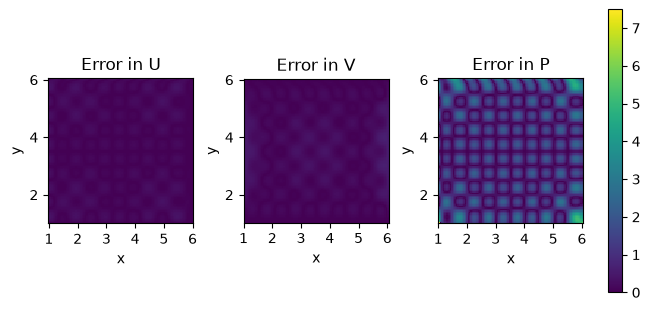
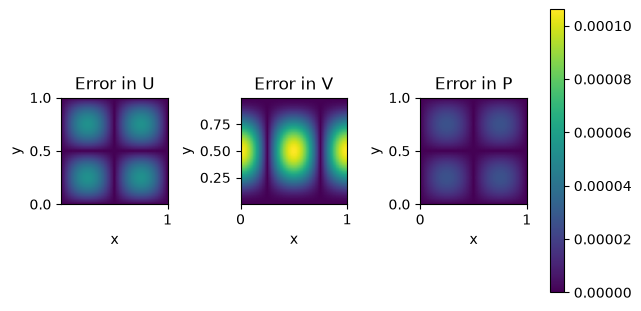
Got the stokes solver to converge to an accurate solution!

diff --git a/Scripts/stokes_solver_v2.py b/Scripts/stokes_solver_v2.py
@@ -4,6 +4,38 @@ import scipy.sparse.linalg as spa
 import matplotlib.pyplot as plt
 from matplotlib.ticker import MultipleLocator
 
+def buildGrids(x, y, Nc, Nr):
+    dx = (x[1]-x[0])/(Nc)
+    x_1 = np.linspace(x[0]+dx, x[1], Nc)
+    x_2 = np.linspace(x[0]+dx/2, x[1]-dx/2, Nc)
+    y_1 = np.linspace(y[0]+dx, y[1]-dx, Nr-1)
+    y_2 = np.linspace(y[0]+dx/2, y[1]-dx/2, Nr)
+    
+    xx_u, yy_u = np.meshgrid(x_1, y_2, indexing ='xy')
+    xx_v, yy_v = np.meshgrid(x_2, y_1, indexing ='xy')
+    xx_p, yy_p = np.meshgrid(x_2, y_2, indexing ='xy')
+    
+    #O = np.zeros((Nc, Nr))
+    
+    ugrids = [xx_u, yy_u]
+    vgrids = [xx_v, yy_v]
+    pgrids = [xx_p, yy_p]
+
+    return ugrids, vgrids, pgrids
+
+def coloredSpy(A, colormap = "coolwarm", filepath = "Images\\Spy.png"):
+    #plt.spy(A, markersize=4, marker='.')
+    fig, ax = plt.subplots()
+    sc = ax.scatter(A.col, A.row, c=A.data, s=8, cmap=colormap, marker="s")
+    ax.set_xlim(-0.5, A.shape[1] - 0.5)
+    ax.set_ylim(A.shape[0] - 0.5, -0.5)      # row 0 at the top, like spy
+    ax.set_aspect("equal")
+    ax.xaxis.tick_top()                       # optional: matches spy's axis placement
+    fig.colorbar(sc, ax=ax, label="value")
+    plt.savefig(filepath)
+    plt.close(fig)
+    return 0
+
 def buildLaplacian(Nr, Nc, u_mat = False):
     row, col, val = [], [], []
     # Build the basic Laplacian
@@ -29,8 +61,12 @@ def buildDeriv(Nr,Nc, dir = 'x', p_mat= False):
     if dir =='x':
         for i in range(Nr):
             for j in range(Nc):
-                row.append(Nc*i+j); col.append(Nc*i+(j+1) % Nc); val.append(1.0) # loop back for periodicity
-                row.append(Nc*i+j); col.append(Nc*i+(j) % Nc); val.append(-1.0) # loop back for periodicity
+                if p_mat:
+                    row.append(Nc*i+j); col.append(Nc*i+(j+1) % Nc); val.append(1.0) # loop back for periodicity
+                    row.append(Nc*i+j); col.append(Nc*i+(j) % Nc); val.append(-1.0) # loop back for periodicity
+                else:
+                    row.append(Nc*i+j); col.append(Nc*i+(j-1) % Nc); val.append(-1.0) # loop back for periodicity
+                    row.append(Nc*i+j); col.append(Nc*i+(j) % Nc); val.append(1.0) # loop back for periodicity
         A = sp.coo_array((val, (row, col)), shape=(Nr*Nr, Nr*Nc))
     if dir =='y':
         for i in range(Nr):
@@ -57,11 +93,13 @@ def buildDeriv(Nr,Nc, dir = 'x', p_mat= False):
             A = sp.coo_array((val, (row, col)))
     return A
 
-def sysAssembly(mu, Nc, Nr, dx, x, y, f, g, U_top, V_top, U_bot, V_bot, verbose=False):
+def sysAssembly(mu, Nc, Nr, x, y, f, g, U_top, V_top, U_bot, V_bot, verbose=False, spy=False):
+    dx = (x[1]-x[0])/(Nr)
+
     # Calculate each block matrix and Build A
     L_u = mu*buildLaplacian(Nr, Nc, u_mat = True)
     L_v = mu*buildLaplacian(Nr-1,Nc)
-    G_x = -1.0*buildDeriv(Nr, Nc, dir = 'x')
+    G_x = -1.0*buildDeriv(Nr, Nc, dir = 'x', p_mat = True)
     G_y = -1.0*buildDeriv(Nr-1,Nc, dir = 'y', p_mat = True)
     D_x = buildDeriv(Nr, Nc, dir = 'x') #buildDeriv(Nx-1, Ny-1, direction = 'x')
     D_y = buildDeriv(Nr,Nc, dir = 'y') #buildDeriv(Nx-1, Ny-2, direction = 'y')
@@ -73,36 +111,27 @@ def sysAssembly(mu, Nc, Nr, dx, x, y, f, g, U_top, V_top, U_bot, V_bot, verbose=
     # print(D_x.shape)
     # print(D_y.shape)
 
-    pin = True
+    pin = False
     if pin:
-        G_x = G_x + sp.coo_array(([-1], ([0],[0])), shape=(Nr*Nr, Nr*Nc))
-
-    A_grid = [[L_u, None, dx*G_x],
-              [None, L_v, dx*G_y],
-              #[D_x, D_y, None]] # Need to revisit how we are building D, it doesn't match G_x.T and it should (at least need to understand where we went wrong)
-              [G_x.T, G_y.T, None]]
+        G_x_pinned = G_x + sp.coo_array(([-1], ([0],[0])), shape=(Nr*Nr, Nr*Nc))
+        A_grid = [[L_u, None, dx*G_x_pinned],
+                  [None, L_v, dx*G_y],
+                  [D_x, D_y, None]] # Need to revisit how we are building D, it doesn't match G_x.T and it should (at least need to understand where we went wrong)
+                  #[G_x.T, G_y.T, None]]
+    else:
+         A_grid = [[L_u, None, dx*G_x],
+                          [None, L_v, dx*G_y],
+                          [D_x, D_y, None]] # Need to revisit how we are building D, it doesn't match G_x.T and it should (at least need to understand where we went wrong)
+                          #[G_x.T, G_y.T, None]]        
 
     A = sp.block_array(A_grid, format = 'coo')
 
-    #plt.spy(A, markersize=4, marker='.')
-    fig, ax = plt.subplots()
-    sc = ax.scatter(A.col, A.row, c=A.data, s=8, cmap="coolwarm", marker="s")
-    ax.set_xlim(-0.5, A.shape[1] - 0.5)
-    ax.set_ylim(A.shape[0] - 0.5, -0.5)      # row 0 at the top, like spy
-    ax.set_aspect("equal")
-    ax.xaxis.tick_top()                       # optional: matches spy's axis placement
-    fig.colorbar(sc, ax=ax, label="value")
-    plt.savefig("Images\\Spy.png")
+    if spy:
+        coloredSpy(A)
 
-    # Build out b using a meshgrid
-    x_u = np.linspace(x[0], x[1], Nc)
-    y_u = np.linspace(y[0] , y[1], Nr) + dx/2
-    xx_u, yy_u = np.meshgrid(x_u, y_u, indexing ='xy')
-    F = f(xx_u, yy_u)*dx**2 # Forcing in X
-    x_v = np.linspace(x[0], x[1], Nc) + dx/2
-    y_v = np.linspace(y[0] + dx , y[1], Nr-1)
-    xx_v, yy_v = np.meshgrid(x_v, y_v, indexing ='xy')
-    G = g(xx_v, yy_v)*dx**2 # Forcing in Y
+    u_grid, v_grid, p_grid = buildGrids(x, y, Nc, Nr)
+    F = f(u_grid[0], u_grid[1])*dx**2 # Forcing in X
+    G = g(v_grid[0], v_grid[1])*dx**2 # Forcing in Y
     O = np.zeros((Nc, Nr))
 
     # apply BCs to forcing matricies
@@ -114,17 +143,16 @@ def sysAssembly(mu, Nc, Nr, dx, x, y, f, g, U_top, V_top, U_bot, V_bot, verbose=
     O[-1,:] -= V_top
 
     b = np.hstack((F.flatten(),G.flatten(),O.flatten()))
-    
-        
+       
     return A, b
 
-def StokesSolver(mu, Nx, Ny, dx, x, y, f, g, U_y_0, V_y_0, U_y_L, V_y_L, verbose = False):
-       # inner linear system
+def StokesSolver(mu, Nx, Ny, x, y, f, g, U_y_0, V_y_0, U_y_L, V_y_L, verbose = False, make_spy = False):
     Nr = Ny - 1
     Nc = Nx - 1
+    dx = (x[1]-x[0])/(Nx-1) # distance between nodes on type 1 grid (and type two grid)
     if verbose:
         print("Building Linear System...", end='\r')
-    A, b = sysAssembly(mu, Nc, Nr, dx, x, y, f, g, U_y_0, V_y_0, U_y_L, V_y_L, verbose = verbose)
+    A, b = sysAssembly(mu, Nc, Nr, x, y, f, g, U_y_0, V_y_0, U_y_L, V_y_L, spy=make_spy)
     A = A.tocsr()
     if verbose:
         print("Linear System Built.           ", end='\n')
@@ -147,37 +175,54 @@ def StokesSolver(mu, Nx, Ny, dx, x, y, f, g, U_y_0, V_y_0, U_y_L, V_y_L, verbose
 
     return U, V, P
 
-def grid_eval(u, v, p, Nx, Ny, dx, x, y):
+def grid_eval(u, v, p, Nx, Ny, x, y):
+    dx = (x[1]-x[0])/(Nx-1)
     Nc = Nx - 1
     Nr = Ny - 1
-    x_u = np.linspace(x[0], x[1], Nc)
-    y_u = np.linspace(y[0] , y[1], Nr) + dx/2
-    xx_u, yy_u = np.meshgrid(x_u, y_u, indexing ='xy')
-    U = u(xx_u, yy_u)
-    x_v = np.linspace(x[0], x[1], Nc) + dx/2
-    y_v = np.linspace(y[0] + dx , y[1], Nr-1)
-    xx_v, yy_v = np.meshgrid(x_v, y_v, indexing ='xy')
-    V = v(xx_v, yy_v)
-    x_p = np.linspace(x[0], x[1], Nc) + dx/2
-    y_p = np.linspace(y[0] , y[1], Nr) + dx/2
-    xx_p, yy_p = np.meshgrid(x_p, y_p, indexing ='xy')
-    P = p(xx_p, yy_p)
-    u_grids = [xx_u, yy_u, U]
-    v_grids = [xx_v, yy_v, V]
-    p_grids = [xx_p, yy_p, P]
+
+    u_grids, v_grids, p_grids = buildGrids(x, y, Nc, Nr)
+
+    U = u(u_grids[0], u_grids[1])
+    V = v(v_grids[0], v_grids[1])
+    P = p(p_grids[0], p_grids[1])
+
+    u_grids.append(U)
+    v_grids.append(V)
+    p_grids.append(P)
+
     return u_grids, v_grids, p_grids
+
+def convTest(mesh_range, num_trials, Operator, filepath):
+    meshes = np.floor(np.linspace(mesh_range[0], mesh_range[1], num_trials)).astype(int)
+    L_2 = np.zeros(num_trials)
+    for i in range(num_trials):
+        print(f"Simulating mesh with {meshes[i]**2} nodes")
+        U_approx,V_approx,P_approx = Operator(meshes[i])
+        L_2[i] = rel_error(a, b, meshes[i]) #calculate relative errors for increasingly finer meshes.
+
+    fig3 = plt.figure(3)
+    ax3 = plt.axes()
+    plt.rcParams['lines.linewidth'] = 3 
+#   plt.plot(meshes, L_2, label = "L_2")
+    plt.loglog(meshes, L_2, label = "L_2")
+#   plt.loglog(meshes, L_inf, label = "L_inf")
+#   ax3.set_xscale('log')
+#   ax3.set_yscale('log')
+    plt.legend()
+    ax3.set_xlabel("Number of FD Nodes")
+    ax3.set_ylabel("Relative Error")
+    plt.savefig('Images\\problem4_3.png')
 
 def main():
     # Control Panel
     mu = 1.0 # Viscousity
-    Nx = 100 # number of nodes in the type 1 grid in each direction
-    x_0 = 1.0 # x left boundary
-    x_L = 6.0 # x right boundary
+    Nx = 250 # number of nodes in the type 1 grid in each direction
+    x_0 = 0.0 # x left boundary
+    x_L = 1.0 # x right boundary
     tp = 2*np.pi
+    
     f = lambda x, y: -2*tp**2*np.sin(tp*x)*np.sin(tp*y) - tp*np.cos(tp*x)*np.sin(tp*y)
     g = lambda x, y: -2*tp**2*np.cos(tp*x)*np.cos(tp*y) + tp**2*np.cos(tp*x) - tp*np.sin(tp*x)*np.cos(tp*y)
-    #f = lambda x, y: (tp - 2*tp**2) * np.sin(tp*x) * np.sin(tp*y)
-    #g = lambda x, y: np.cos(tp*x) * np.cos(tp*y) * (tp - 2*tp**2) + 2*tp**2 * np.cos(tp*x)
 
     u_exact = lambda x,y: np.sin(tp*y) * np.sin(tp*x)
     v_exact = lambda x,y: -3.5 + np.cos(tp*x)*(np.cos(tp*y)-1)
@@ -185,6 +230,7 @@ def main():
 
     colormap = 'viridis'
 
+    # U and V vertical BCs, periodic
     # U horizontal BCs
     U_y_0 = 0
     U_y_L = 0
@@ -192,19 +238,16 @@ def main():
     V_y_0 = -3.5
     V_y_L = -3.5
 
-    # U and V vertical BCs, periodic
-
     # Set up the square
     Ny = Nx
     y_0, y_L = x_0, x_L # y left and right boundaries
     x, y = (x_0, x_L), (y_0, y_L)
-    dx = (x_L-x_0)/Nx # distance between nodes on type 1 grid (and type two grid)
-
-    # Solve the problem
-    U_approx,V_approx,P_approx = StokesSolver(mu, Nx, Ny, dx, x, y, f, g, U_y_0, V_y_0, U_y_L, V_y_L, verbose=True)
     
+    # Solve the problem
+    U_approx,V_approx,P_approx = StokesSolver(mu, Nx, Ny, x, y, f, g, U_y_0, V_y_0, U_y_L, V_y_L, verbose=True, make_spy=True)
+
     # Error analysis
-    U_bundle,V_bundle,P_bundle = grid_eval(u_exact, v_exact, p_exact, Nx, Ny, dx, x, y)
+    U_bundle,V_bundle,P_bundle = grid_eval(u_exact, v_exact, p_exact, Nx, Ny, x, y)
     U_exact = U_bundle[2]
     V_exact = V_bundle[2]
     P_exact = P_bundle[2]
@@ -232,6 +275,16 @@ def main():
     ax1[1].set_title('Error in V')
     ax1[2].set_title('Error in P')
     plt.savefig("Images\\Error_Surfaces.png", bbox_inches='tight')
+
+    # Plot convergence curve
+    O_stokes = lambda Nx: StokesSolver(mu, Nx, Nx, x, y, f, g, U_y_0, V_y_0, U_y_L, V_y_L, verbose=False, make_spy=False)
+
+    # Plot a flow field
+
+    # Profile code
+    
+    # Call this done
+
     return 0
 
 if __name__ == "__main__":
